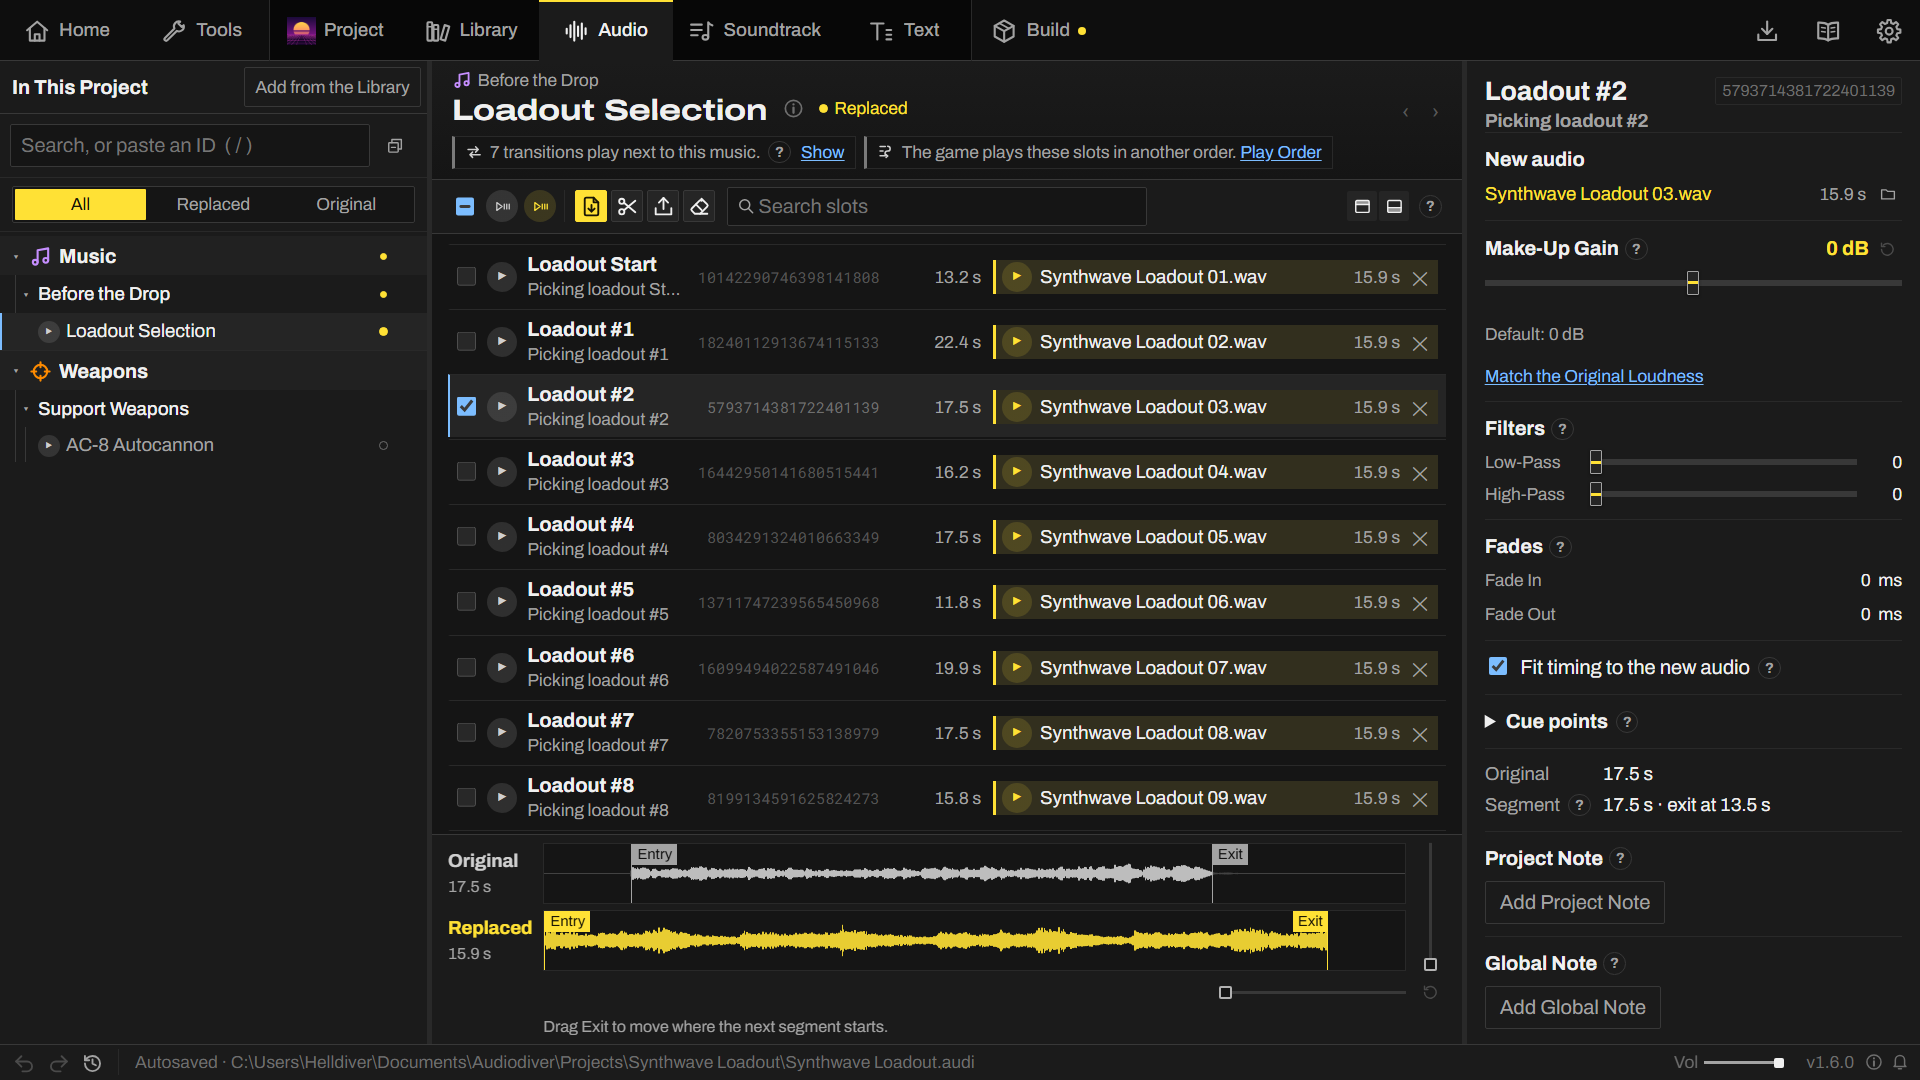
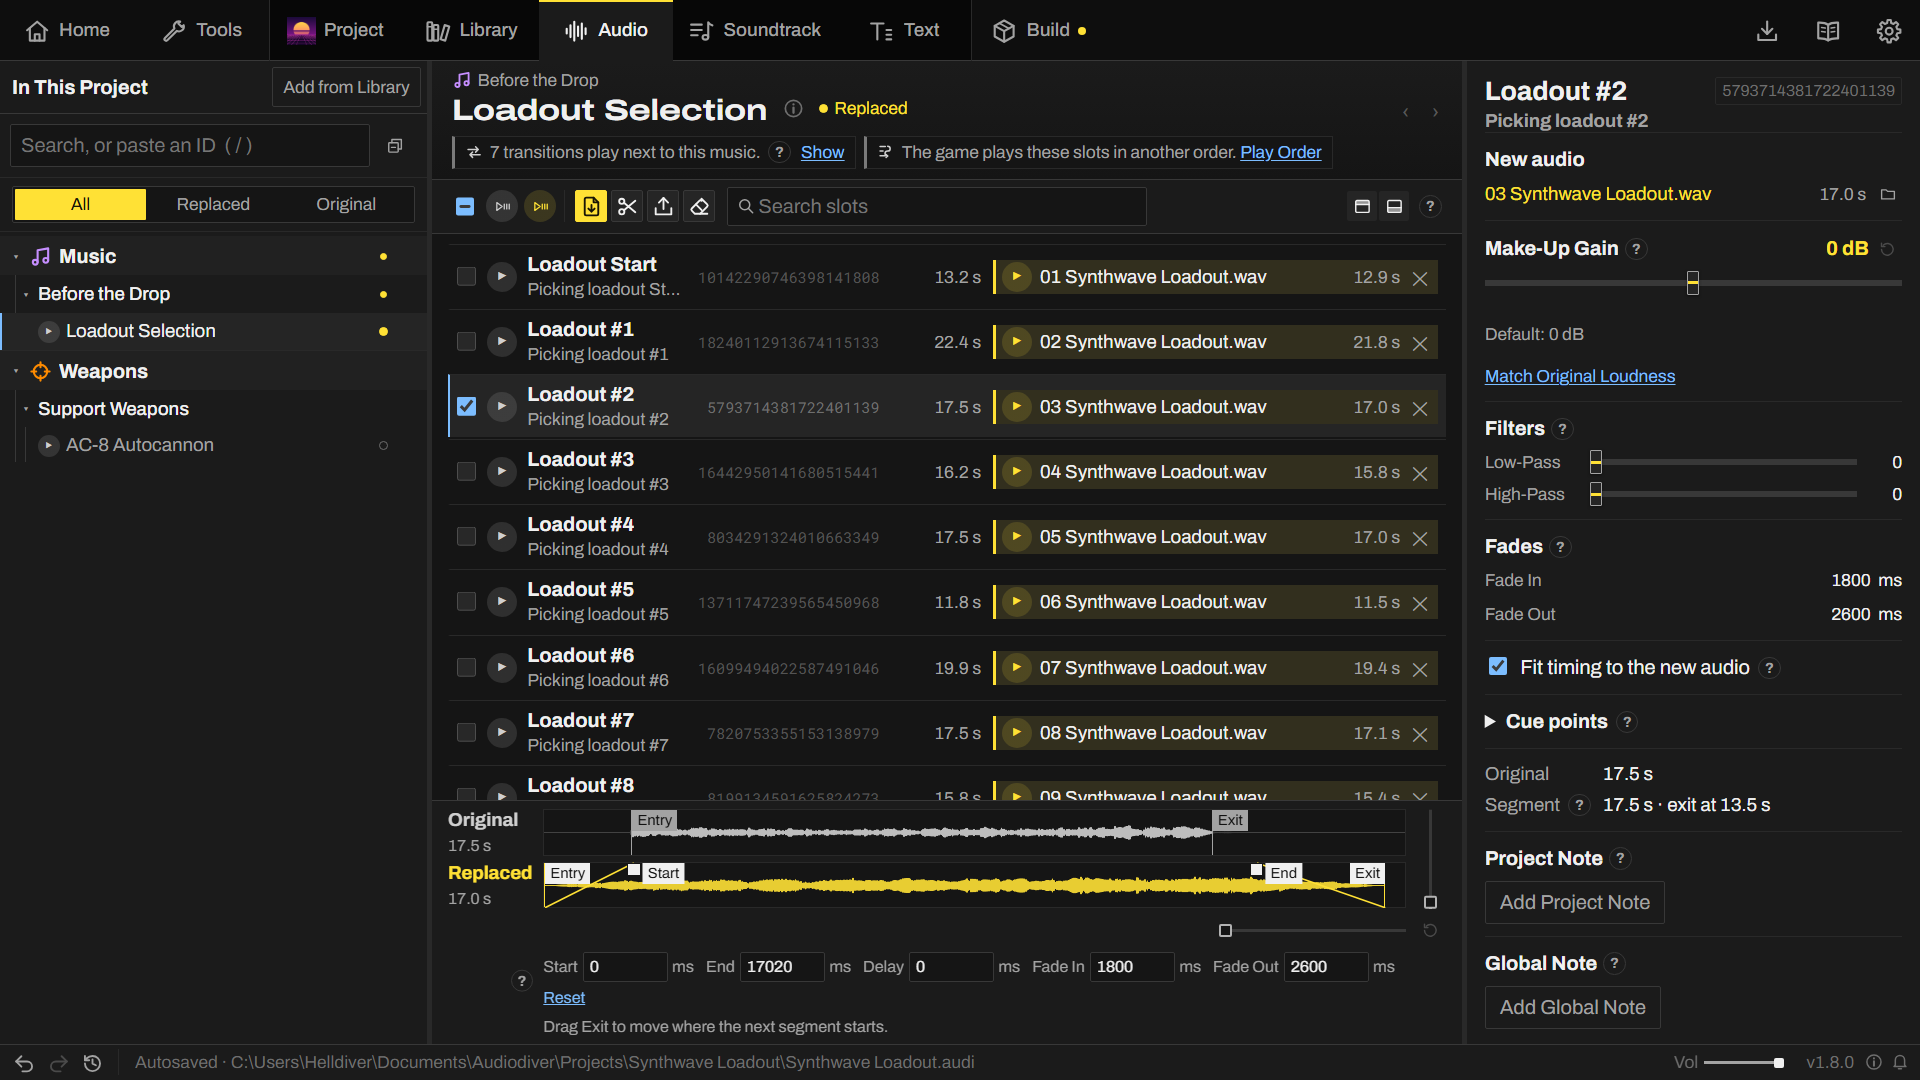
README for 1.8: Helldivers 1, Linux, trim and fades, .7z and .rar, 7-Zip and oggenc credits; every shot retaken

diff --git a/README.md b/README.md
@@ -2,12 +2,12 @@
   <img src="assets/logo/banner.jpg" alt="Audiodiver: the yellow skull logo with a sound meter on the brow, over the word AUDIODIVER with a waveform dripping from the letters" width="100%">
 </p>
 
-<p align="center">Helldivers 2 audio and text archive explorer, editor and mod builder.</p>
+<p align="center">Helldivers 2 audio and text archive explorer, editor and mod builder, with Helldivers 1 audio too.</p>
 
 <p align="center">
   <img alt="Windows 10 and 11" src="https://img.shields.io/badge/Windows-10%20%7C%2011-2f7bf5?style=flat-square">
   <img alt="Linux (beta)" src="https://img.shields.io/badge/Linux-beta-f5a623?style=flat-square">
-  <img alt="Mods for Helldivers 2" src="https://img.shields.io/badge/mods%20for-Helldivers%202-ffe81f?style=flat-square">
+  <img alt="Mods for Helldivers 2 and Helldivers 1" src="https://img.shields.io/badge/mods%20for-Helldivers%202%20%7C%201-ffe81f?style=flat-square">
   <img alt="License: MPL-2.0" src="https://img.shields.io/badge/license-MPL--2.0-3a3a3a?style=flat-square">
   <!-- the count of LANGUAGES in app/src/i18n.ts, listed under Supported Languages -->
   <a href="#-supported-languages"><img alt="7 languages" src="https://img.shields.io/badge/languages-7-3a3a3a?style=flat-square"></a>
@@ -27,7 +27,7 @@
 <br>
 
 <p align="center">
-  <img src="assets/readme/home.png" alt="Audiodiver's Home tab for Helldivers 2 over a screenshot of a Helldiver kneeling in a desert sandstorm: New Project, Open Project and Import Mod, the loaded project with Go to Project and Close, then Repatch and Combine Mods, the switch between Helldivers 1 and Helldivers 2 in the top right, and Discord, Ko-fi and GitHub in the corner" width="100%">
+  <img src="assets/readme/home.png" alt="Audiodiver's Home tab for Helldivers 2 over a screenshot of a Helldiver kneeling in a desert sandstorm: New Project, Open Project and Import Mod, the loaded project with Go to Project and Close, then Repatch and Combine Mods, the switch between Helldivers 1 and Helldivers 2 in the top right, Discord, Ko-fi and GitHub in the corner, and the war news ticker along the bottom" width="100%">
 </p>
 
 <p align="center">
@@ -49,21 +49,21 @@
 
 ### 📁 Project
 
-The mod's name, description, icon and ID, with a preview as a mod manager shows them. The project folder has **Collect Files**, a clean-up to the Recycle Bin, and packs (`.audipack`) for another computer.
+The mod's name, description, icon and ID, with a preview as a mod manager shows them. The project folder has **Collect Files**, a clean-up to the Recycle Bin (the trash on Linux), and packs (`.audipack`) for another computer.
 
 <img src="assets/readme/project.png" alt="The Project tab: the name, description, icon and mod ID, beside a preview of the mod in a mod manager with Import Patches and Close Project above it" width="100%">
 
 ### 📚 Library
 
-Every sound in Helldivers 2, sorted. Music goes by when it plays, from the ship to extraction, and weapons by loadout slot, then stratagems, enemies and planets. Search takes a name, a label or an ID.
+Every sound in Helldivers 2, sorted. Music goes by when it plays, from the ship to extraction, and weapons by loadout slot, then stratagems, enemies and planets. Search takes a name, a label or an ID. The switch on Home turns the Library, and the projects, to Helldivers 1.
 
-<img src="assets/readme/library.png" alt="The Library's Index on Helldivers 2, with On the Ship, Bridge and War Map open: two parts, each segment with a row for each track under the segment name, a note on the transitions and stingers that play next to them, and the details panel with the Global Note" width="100%">
+<img src="assets/readme/library.png" alt="The Library's Index on Helldivers 2, with a tab for Helldivers 1 beside it, and On the Ship, Bridge and War Map open: two parts, each segment with a row for each track under the segment name, a note on the transitions and stingers that play next to them, and the details panel with the Global Note" width="100%">
 
 ### 🎚 Audio
 
-The music and sounds of a project, one slot per clip. An audio file dropped on a slot, a sound or a whole piece replaces the original, and one song can be cut across a whole piece. Slots take silence and Make-Up Gain too, and sounds can get new takes and layers. Under the slots, the original and the new audio are drawn on one time scale, with a zoom in time and level.
+The music and sounds of a project, one slot per clip. An audio file dropped on a slot, a sound or a whole piece replaces the original, and **Slice a song** cuts one song across a whole piece, or a stretch of it for a sound. Slots take silence and Make-Up Gain too, and sounds can get new takes and layers. Under the slots, the original and the new audio are drawn on one time scale, with a zoom in time and level. On the new audio's waveform, **Start** and **End** trim it, the square at the top of each line fades it in or out, and dragging the stretch between them starts it later.
 
-<img src="assets/readme/audio.png" alt="Loadout Selection on the Audio tab: slots with new audio, the selected one ticked, the original and new waveforms of that slot on one time scale with the zoom sliders beside them, and the slot settings on the right down to the Project Note and the Global Note" width="100%">
+<img src="assets/readme/audio.png" alt="Loadout Selection on the Audio tab: slots with new audio, the selected one ticked, the original and new waveforms of that slot on one time scale with the zoom sliders beside them, the new audio's Start and End lines bent into a fade in and a fade out, the Start, End, Delay and fade fields in ms under them, and the slot settings on the right down to the Project Note and the Global Note" width="100%">
 
 ### 🎼 Soundtrack
 
@@ -103,7 +103,7 @@ New versions, looked for at every start. Audiodiver asks before installing one, 
 
 ### 🧰 Audiodiver Utils
 
-The two tools of the Tools tab on their own, for players who only need to fix or merge mods: a 27 MB portable window, and a command line.
+The two tools of the Tools tab on their own, for players who only need to fix or merge mods: a portable window of about 30 MB and a command line, for Windows and Linux. Both read mods as ZIP, .7z or .rar files, as mod managers download them, or as patch files.
 
 #### Repatch
 
@@ -115,7 +115,7 @@ Several mods that change the same sound banks, built as one with the options cho
 
 #### Command Line
 
-`audiodiver.cmd` runs the same tools from a command line, so scripts and mod managers can call them:
+`audiodiver.cmd` (on Linux, `./audiodiver`) runs the same tools from a command line, so scripts and mod managers can call them:
 
 ```
 audiodiver.cmd check --json                        installed mods that need a repatch
@@ -138,21 +138,22 @@ then the language of the system.
 
 ## How It Works
 
-- Audiodiver finds Helldivers 2 through Steam and reads the game archives.
+- Audiodiver finds Helldivers 2 and Helldivers 1 through Steam and reads the game archives.
 - On first startup, the core indexes every sound bank, stream and object, with names
   from the modding community's research. It indexes again after each game update.
 - A build takes the current sound banks, puts the new audio and timing in, and reads the result back to check it
   before packing the ZIP. That's why rebuilding after an update is usually all a mod needs.
-- wav2wem encodes new audio to Wwise Vorbis, vgmstream plays the original audio, and FFmpeg reads everything else.
-  All three come with Audiodiver.
+- wav2wem encodes new audio to Wwise Vorbis (on Linux with oggenc), vgmstream plays the original audio, FFmpeg
+  reads everything else, and 7-Zip opens mods packed as .7z or .rar. All of them come with Audiodiver.
 - A Python core reads, patches and builds, and the window is Tauri 2 with React. They talk over a local connection
   protected by a token.
-- More than 200 tests, among them byte-for-byte builds of three complete music mods.
+- More than 400 tests, among them byte-for-byte builds of three complete music mods.
 
 ## How to Use
 
 You need Windows 10 or 11 or a 64-bit Linux (beta), Helldivers 2 installed through Steam, and a Helldivers 2 mod
-manager to install the mods you build.
+manager to install the mods you build. Helldivers 1 mods install with
+[a mod manager for Helldivers 1](https://www.nexusmods.com/helldivers/mods/16), version 1.1.0 or later.
 
 1. Download Audiodiver from [Releases](https://github.com/Alomare/Audiodiver/releases/latest) and run it. The installer
    isn't code-signed yet, so Windows may say it protected your PC: choose **More info**, then **Run anyway**.
@@ -223,7 +224,7 @@ Audiodiver is 100% free, no caveats. If you'd like to support it, buy me a [Ko-f
 ### With Code
 
 You need Windows with Helldivers 2 from Steam, Python 3.12+, Node.js 20+ and Rust, and ffmpeg, vgmstream-cli and
-wav2wem on your PATH.
+wav2wem on your PATH (7-Zip too, for the tests of .7z and .rar mods).
 
 ```sh
 pip install -e "core[test]"     # the core
@@ -266,7 +267,8 @@ About ▸ Credits too.
 | Music notes | geoffreyhdt1 | Illuminate Void and Automaton clip names, when clips play, warnings and minimum lengths. |
 | [Whisper](https://github.com/openai/whisper) | OpenAI | Hearing the voice lines, to match each one to a subtitle. |
 | [Audio Spectrogram Transformer](https://huggingface.co/MIT/ast-finetuned-audioset-10-10-0.4593) | MIT | Telling grunts, breaths and laughs from words. |
-| [FFmpeg](https://ffmpeg.org), [vgmstream](https://github.com/vgmstream/vgmstream), [wav2wem](https://github.com/pas2k/wav2wem) | | Reading, playing and encoding audio. They come with Audiodiver as separate programs. |
+| [FFmpeg](https://ffmpeg.org), [vgmstream](https://github.com/vgmstream/vgmstream), [wav2wem](https://github.com/pas2k/wav2wem), [oggenc](https://github.com/xiph/vorbis-tools) with [aoTuV](https://github.com/AO-Yumi/vorbis_aotuv) | | Reading, playing and encoding audio. They come with Audiodiver as separate programs (oggenc only on Linux). |
+| [7-Zip](https://www.7-zip.org) | Igor Pavlov | Opening mods packed as .7z or .rar. It comes with Audiodiver as a separate program. |
 | Archivo, Noto Serif and Roboto Mono | | The typefaces, under the [SIL Open Font License](https://openfontlicense.org). |
 | [Divershub](https://divershub.app) | | The ticker of war news along the bottom of Home. |
 
@@ -276,8 +278,9 @@ Audiodiver is free software under the [Mozilla Public License 2.0](LICENSE). Any
 has to keep the files open under the same license. The license doesn't cover the mods you build with it.
 
 `core/audiodiver/_vendor/slim.py` comes from hd2-audio-modder, under the MIT License
-(`core/audiodiver/_vendor/LICENSE-hd2-audio-modder`). FFmpeg, vgmstream and wav2wem keep their licenses (wav2wem is
-under GPL-2.0), and their sources are at the links above.
+(`core/audiodiver/_vendor/LICENSE-hd2-audio-modder`). FFmpeg, vgmstream, wav2wem, oggenc and 7-Zip keep
+their licenses (wav2wem and oggenc are under GPL-2.0, 7-Zip under the GNU LGPL with the unRAR restriction), and their
+sources are at the links above.
 
 <sub>Audiodiver is a fan-made tool, not affiliated with or endorsed by Arrowhead Game Studios or Sony Interactive
 Entertainment. HELLDIVERS is a trademark of Sony Interactive Entertainment LLC.</sub>
